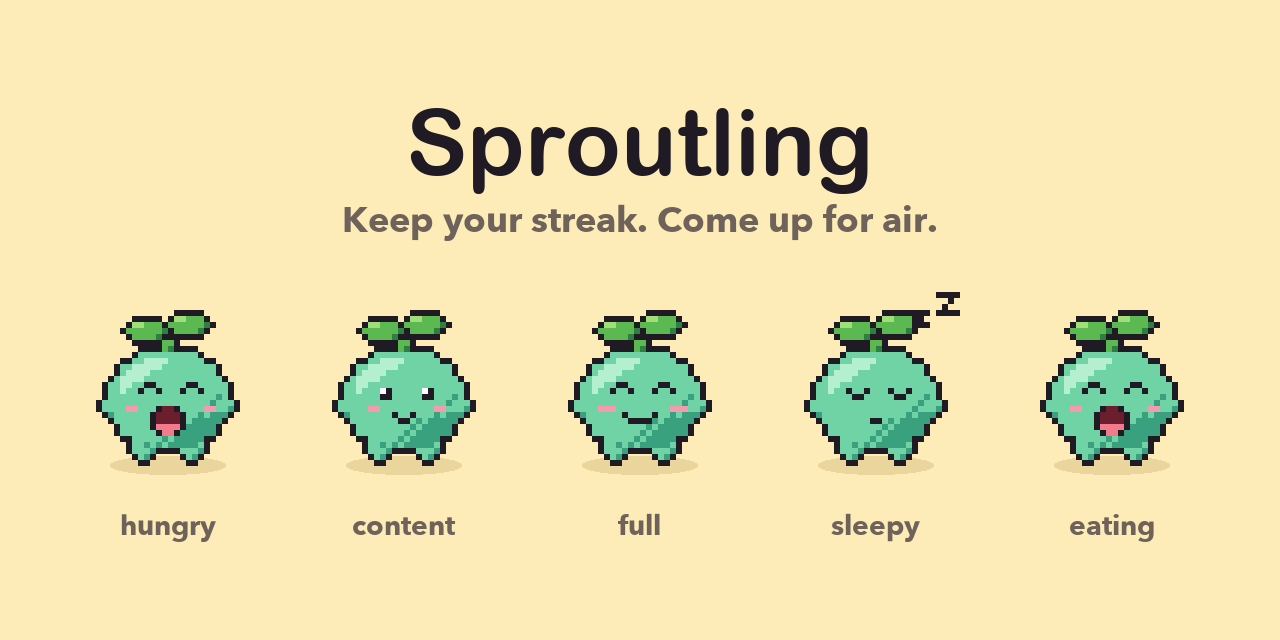
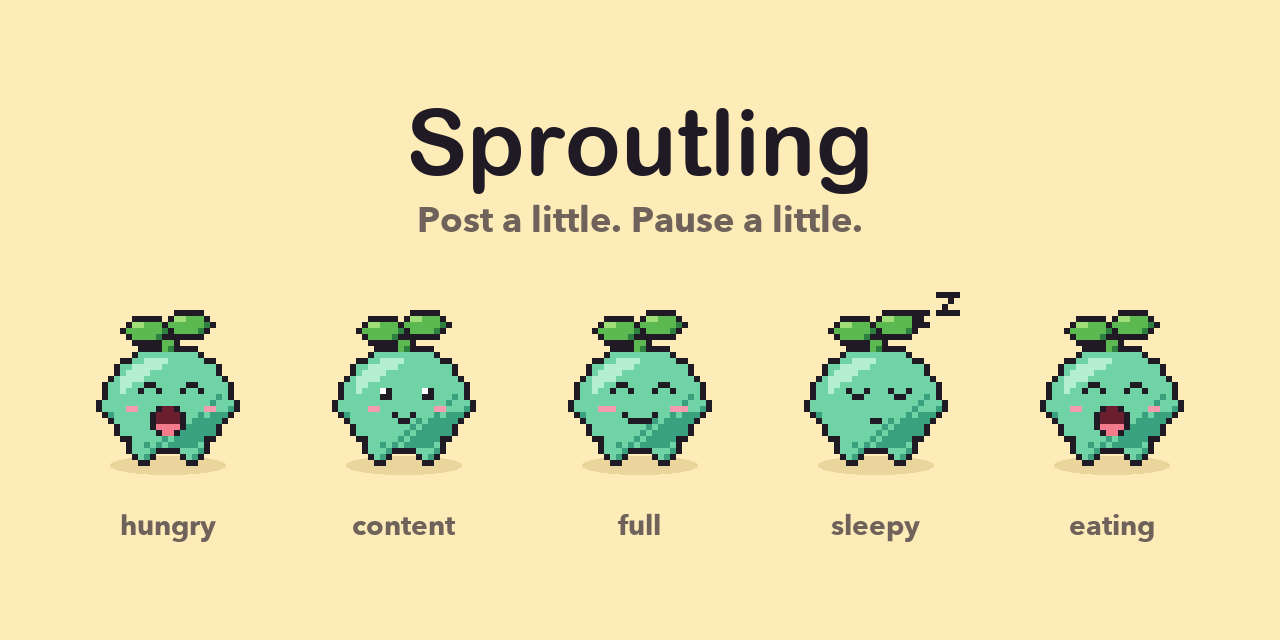
Headline: Post a little. Pause a little.

Changed region(s): [[0.25, 0.3125, 0.7188, 0.375]]

diff --git a/site/index.html b/site/index.html
@@ -7,7 +7,7 @@
     <title>Sproutling</title>
     <meta name="description" content="A tiny pixel pet that helps you keep your posting streak, and gently reminds you to look up from the scroll." />
     <meta property="og:title" content="Sproutling" />
-    <meta property="og:description" content="Keep your streak. Come up for air. A pixel pet that follows you around, fed by your Buffer posts." />
+    <meta property="og:description" content="Post a little. Pause a little. A pixel pet that follows you around, fed by your Buffer posts." />
     <meta property="og:image" content="https://sproutling.pet/share.png" />
     <meta property="og:image:width" content="1280" />
     <meta property="og:image:height" content="640" />
@@ -34,7 +34,7 @@
     <main id="top">
       <section class="hero">
         <div class="hero-copy">
-          <h1>Keep showing up; but come back for air.</h1>
+          <h1>Post a little. Pause a little.</h1>
           <div class="lede">
             <p class="lede-main"><em>Sproutling</em> is a tiny pixel pet that keeps you company in your browser.</p>
             <ul class="beats">

diff --git a/tools/sprites/brand.py b/tools/sprites/brand.py
@@ -71,7 +71,7 @@ def build_banner():
 
     OY = 36  # centres the block vertically
     d.text((W // 2, 105 + OY), "Sproutling", font=font(TITLE_FONT, 92), fill=OUT, anchor="mm")
-    d.text((W // 2, 185 + OY), "Keep your streak. Come up for air.", font=font(BODY_FONT, 36), fill=MUTED, anchor="mm")
+    d.text((W // 2, 185 + OY), "Post a little. Pause a little.", font=font(BODY_FONT, 36), fill=MUTED, anchor="mm")
 
     moods = ["hungry", "idle", "full", "sleepy", "eating"]
     labels = ["hungry", "content", "full", "sleepy", "eating"]
@@ -247,7 +247,7 @@ def promo_small():
     shadowed(img, d, 24 + 20, 56 + 14, 4)
     avail = 440 - 212 - 16
     d.text((212, 112), "Sproutling", font=fit(d, "Sproutling", TITLE_FONT, 40, avail), fill=OUT, anchor="lm")
-    for i, line in enumerate(("Keep your streak.", "Come up for air.")):
+    for i, line in enumerate(("Post a little.", "Pause a little.")):
         d.text((212, 156 + i * 28), line, font=fit(d, line, BODY_FONT, 22, avail), fill=MUTED, anchor="lm")
     return img
 
